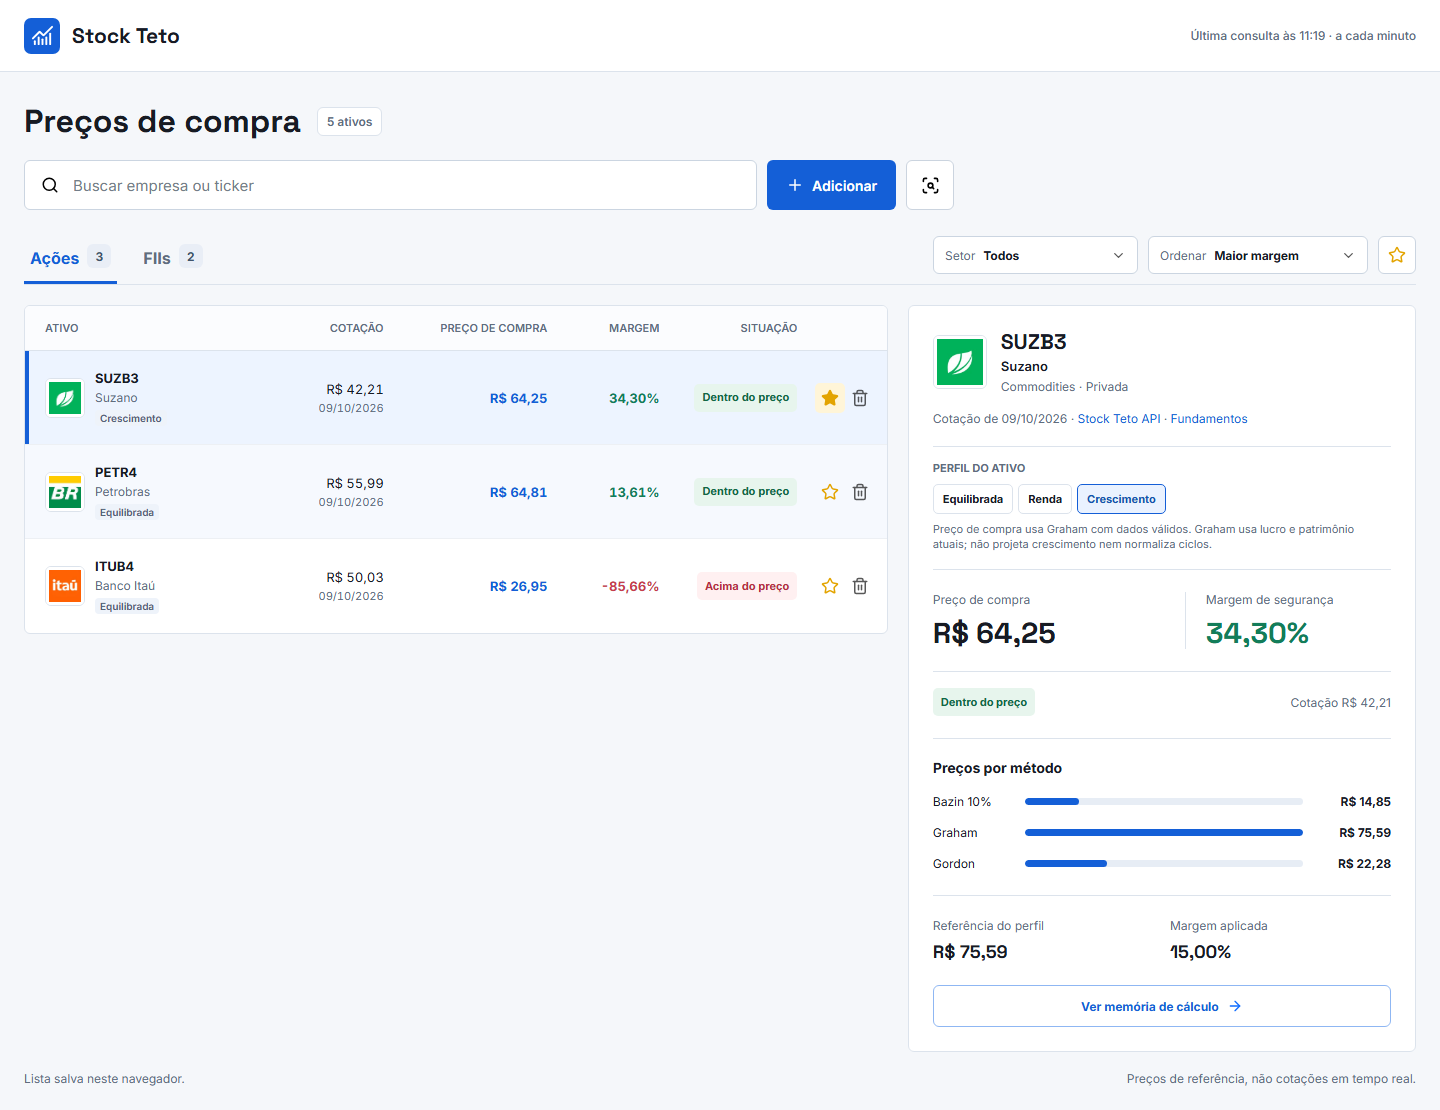
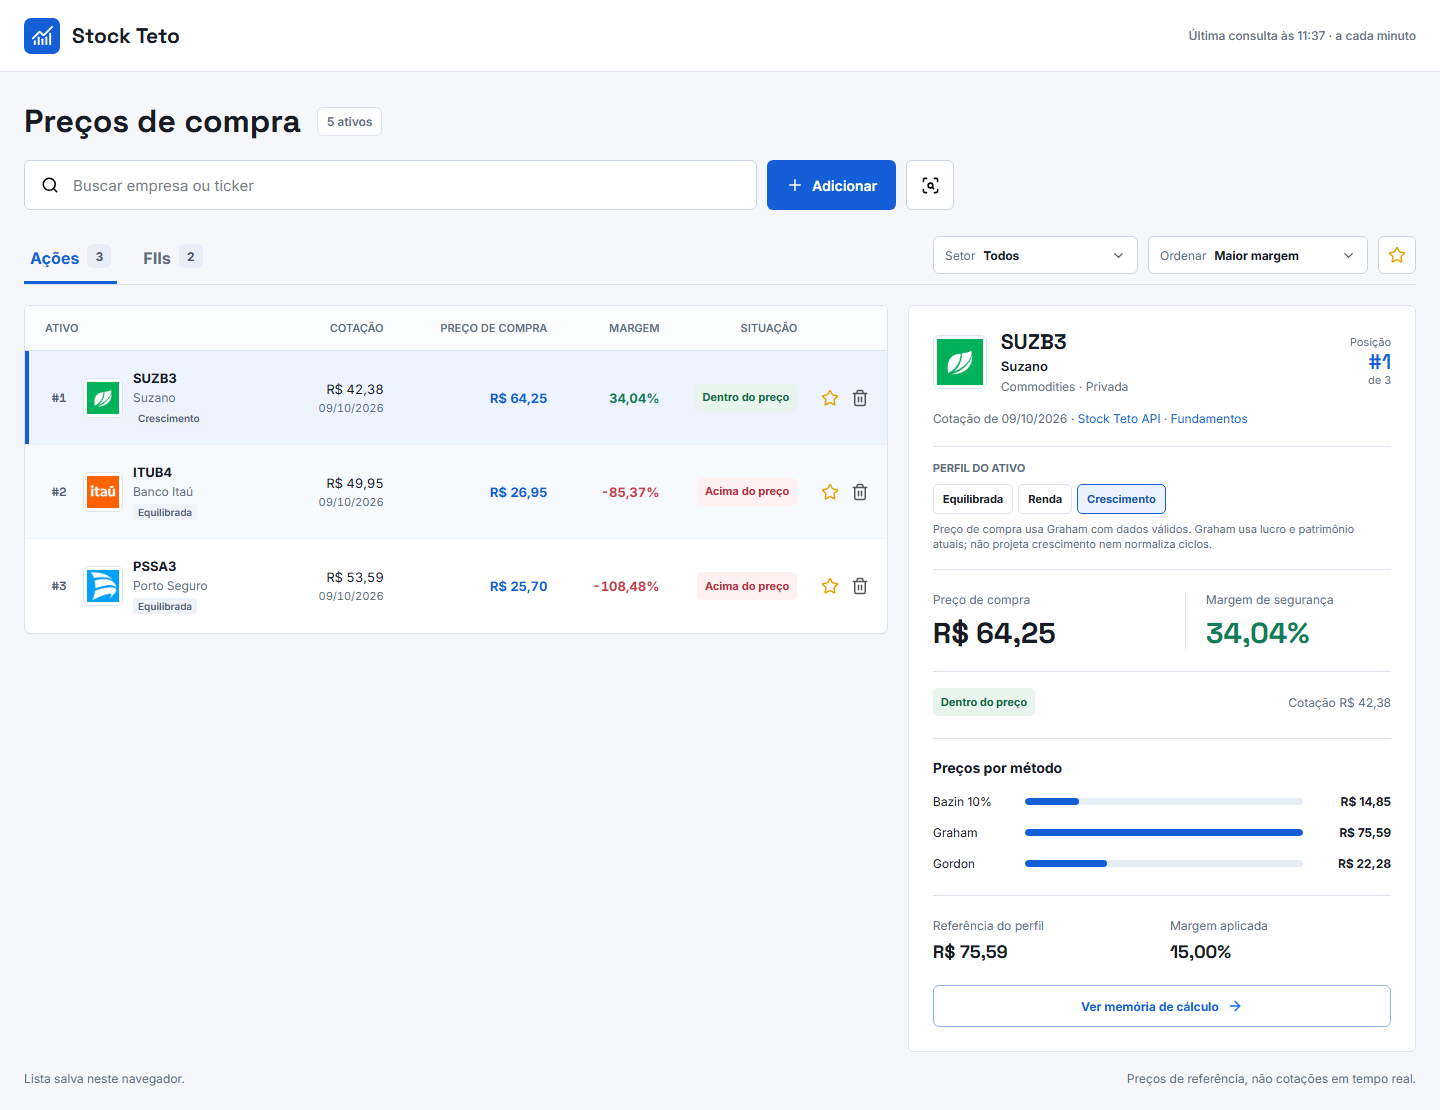
Interface: mostra posicao no ranking

diff --git a/public/js/prices.js b/public/js/prices.js
@@ -436,23 +436,24 @@ function renderClassCompact(type) {
   if (!ranked.length) {
     const message = favoriteOnly ? 'Nenhum favorito nesta lista.' : type === 'stock' && settings.stockSector !== 'all' ? 'Nenhuma ação neste setor.' : type === 'stock' ? 'Nenhuma ação adicionada.' : 'Nenhum FII adicionado.';
     target.innerHTML = `<div class="empty compact-empty">${icon(type === 'stock' ? 'chart-no-axes-combined' : 'building-2')}<p>${message}</p></div>`;
-    return;
+    return ranked;
   }
   const visible = type === 'stock' ? ranked.slice(0, stockVisibleCount) : ranked;
   target.innerHTML = `<div class="table-scroll" tabindex="0" role="region" aria-label="Ranking de ${type === 'stock' ? 'ações' : 'FIIs'}"><table class="asset-table compact-table">
     <thead><tr><th scope="col">Ativo</th><th scope="col">Cotação</th><th scope="col">${type === 'stock' ? 'Preço de compra' : 'Valor de referência'}</th><th scope="col">${type === 'stock' ? 'Margem' : 'Desconto'}</th><th scope="col">Situação</th><th scope="col"><span class="sr-only">Ações</span></th></tr></thead>
-    <tbody>${visible.map((asset) => {
+    <tbody>${visible.map((asset, index) => {
       const margin = assetMargin(asset);
       const status = assetStatus(asset);
       const label = asset.loading ? 'Consultando…' : asset.error ? 'Consulta indisponível' : asset.name || asset.ticker;
       const favorite = settings.favorites.includes(asset.ticker);
-      return `<tr class="${asset.ticker === selectedTicker && type === activeType ? 'selected-row' : ''}" data-row-ticker="${escape(asset.ticker)}"><td class="identity-cell"><div class="asset-name">${logo(asset)}<button class="asset-link" type="button" data-action="select" data-ticker="${escape(asset.ticker)}" aria-label="Selecionar ${escape(asset.ticker)}">${escape(asset.ticker)}<small title="${escape(label)}">${escape(label)}</small>${type === 'stock' ? `<span class="strategy-tag">${escape(STRATEGY_LABELS[strategyFor(asset)])}</span>` : ''}</button></div></td>
+      return `<tr class="${asset.ticker === selectedTicker && type === activeType ? 'selected-row' : ''}" data-row-ticker="${escape(asset.ticker)}"><td class="identity-cell"><div class="asset-name"><span class="rank-index" aria-label="Posição ${index + 1}">#${index + 1}</span>${logo(asset)}<button class="asset-link" type="button" data-action="select" data-ticker="${escape(asset.ticker)}" aria-label="Selecionar ${escape(asset.ticker)}">${escape(asset.ticker)}<small title="${escape(label)}">${escape(label)}</small>${type === 'stock' ? `<span class="strategy-tag">${escape(STRATEGY_LABELS[strategyFor(asset)])}</span>` : ''}</button></div></td>
         <td data-label="Cotação"><span class="cell-value">${money(recentQuote(asset) ? asset.currentPrice : null)}</span>${Number.isFinite(asset.currentPrice) ? `<small class="quote-date">${escape(quoteDate(asset))}</small>` : ''}</td>
         <td data-label="${type === 'stock' ? 'Preço de compra' : 'Valor de referência'}" class="price-selected">${money(referencePrice(asset))}</td>
         <td data-label="${type === 'stock' ? 'Margem' : 'Desconto'}" class="${margin === null ? '' : margin >= 0 ? 'positive-text' : 'negative-text'}">${percent(margin)}</td>
         <td data-label="Situação"><span class="status-pill ${status.className}">${status.text}</span></td>
         <td class="actions-cell"><div class="row-actions"><button class="icon-button favorite-button ${favorite ? 'active' : ''}" type="button" data-action="favorite" data-ticker="${escape(asset.ticker)}" aria-pressed="${favorite}" title="${favorite ? 'Desfavoritar' : 'Favoritar'} ${escape(asset.ticker)}" aria-label="${favorite ? 'Desfavoritar' : 'Favoritar'} ${escape(asset.ticker)}">${favoriteIcon(favorite)}</button><button class="icon-button remove" type="button" data-action="remove" data-ticker="${escape(asset.ticker)}" title="Remover ${escape(asset.ticker)}" aria-label="Remover ${escape(asset.ticker)}">${icon('trash-2')}</button></div></td></tr>`;
     }).join('')}</tbody></table></div>${type === 'stock' && ranked.length > visible.length ? `<div class="show-more-row"><button class="button secondary" type="button" data-action="show-more-stocks">Mostrar mais ${Math.min(STOCK_PAGE_SIZE, ranked.length - visible.length)}</button></div>` : ''}`;
+  return ranked;
 }
 
 function methodLine(label, value, maximum) {
@@ -460,7 +461,7 @@ function methodLine(label, value, maximum) {
   return `<div class="method-line"><span>${label}</span><div class="method-track"><i style="width:${width}%"></i></div><strong>${money(value)}</strong></div>`;
 }
 
-function renderInsight() {
+function renderInsight(ranked) {
   const panel = $('asset-insight');
   const asset = assets.get(selectedTicker);
   if (!selectedTicker) {
@@ -485,7 +486,8 @@ function renderInsight() {
   const fii = valuation.fii || {};
   const fiiIncomePrice = reference === null ? null : fii.incomePrice;
   const fiiMaximum = Math.max(fiiIncomePrice || 0, fii.vpa || 0);
-  panel.innerHTML = `<div class="insight-heading">${logo(asset)}<div><h2>${escape(asset.ticker)}</h2><strong>${escape(asset.name || asset.ticker)}</strong><small>${escape(sector)} · ${escape(control)}</small></div></div>
+  const position = ranked.findIndex((item) => item.ticker === asset.ticker) + 1;
+  panel.innerHTML = `<div class="insight-heading">${logo(asset)}<div><h2>${escape(asset.ticker)}</h2><strong>${escape(asset.name || asset.ticker)}</strong><small>${escape(sector)} · ${escape(control)}</small></div>${position ? `<span class="rank-summary" title="Posição conforme os filtros e a ordenação atuais"><span>Posição</span><strong>#${position}</strong><span>de ${ranked.length}</span></span>` : ''}</div>
     <div class="insight-source">${recentQuote(asset) ? `Cotação de ${escape(quoteDate(asset))}` : 'Cotação indisponível'} · ${quoteSource ? `<a href="${quoteSource}" target="_blank" rel="noopener noreferrer">Stock Teto API</a>` : 'API indisponível'}${source ? ` · <a href="${escape(source)}" target="_blank" rel="noopener noreferrer">Fundamentos</a>` : ''}</div>
     ${asset.type === 'stock' ? strategyControl(asset) : ''}
     <div class="insight-primary"><div><small>${asset.type === 'stock' ? 'Preço de compra' : 'Valor de referência'}</small><strong>${money(reference)}</strong></div><div><small>${asset.type === 'stock' ? 'Margem de segurança' : 'Desconto estimado'}</small><strong class="${margin === null ? '' : margin >= 0 ? 'positive-text' : 'negative-text'}">${percent(margin)}</strong></div></div>
@@ -512,9 +514,9 @@ function render() {
   $('favorites-filter').innerHTML = favoriteIcon(favoriteOnly);
   renderSectorFilter();
   renderSortFilter();
-  renderClassCompact('stock');
-  renderClassCompact('fii');
-  renderInsight();
+  const stocks = renderClassCompact('stock');
+  const fiis = renderClassCompact('fii');
+  renderInsight(activeType === 'stock' ? stocks : fiis);
 }
 
 function showAnalysis(asset) {

diff --git a/public/css/prices-layout.css b/public/css/prices-layout.css
@@ -177,6 +177,7 @@ body { background: var(--bg); }
 .compact-table td { padding: 14px 12px; height: 94px; font-size: 13px; }
 .compact-table td:first-child { padding-left: 20px; }
 .compact-table .asset-name { min-width: 0; }
+.rank-index { display: inline-block; flex: 0 0 28px; width: 28px; color: #536176; font-family: var(--display); font-size: 12px; font-weight: 700; text-align: center; }
 .compact-table .logo { width: 40px; height: 40px; }
 .compact-table .asset-link { min-width: 0; font-size: 13px; }
 .compact-table .asset-link small { max-width: 160px; overflow: hidden; text-overflow: ellipsis; white-space: nowrap; margin-top: 4px; }
@@ -215,6 +216,8 @@ body { background: var(--bg); }
 .insight-heading strong, .insight-heading small { display: block; overflow-wrap: anywhere; }
 .insight-heading strong { margin-top: 3px; font-size: 13px; font-weight: 600; }
 .insight-heading small { margin-top: 5px; font-size: 12px; color: var(--muted); }
+.rank-summary { display: flex; flex-direction: column; align-items: flex-end; flex: 0 0 auto; margin-left: auto; color: var(--muted); font-size: 11px; line-height: 1.25; }
+.rank-summary strong { margin: 2px 0; color: var(--blue); font-family: var(--display); font-size: 21px; line-height: 1; }
 .insight-source { margin: 17px 0 20px; font-size: 12px; color: var(--muted); }
 .insight-source a { color: var(--blue); text-decoration: none; }
 .insight-source a:hover { text-decoration: underline; }
@@ -319,11 +322,12 @@ footer { margin-top: 18px; }
   .favorite-toggle { flex: 0 0 38px; }
   .compact-table tr { gap: 15px 12px; padding: 16px 15px; }
   .compact-table tr.selected-row { box-shadow: inset 4px 0 var(--blue); }
-  .compact-table tr.selected-row td:first-child { box-shadow: none; }
+  .compact-table tbody tr.selected-row td:first-child { box-shadow: none; }
   .compact-table td { height: auto; padding: 0; font-size: 14px; }
   .compact-table td:first-child { padding-left: 0; }
   .compact-table td:nth-child(5) { display: block; }
   .compact-table .identity-cell { padding-right: 70px; }
+  .compact-table .rank-index { flex-basis: 26px; width: 26px; font-size: 11px; }
   .compact-table .logo { width: 38px; height: 38px; }
   .compact-table .asset-link small { max-width: 200px; }
   .compact-table .actions-cell { right: 10px; top: 17px; }

diff --git a/public/index.html b/public/index.html
@@ -9,9 +9,9 @@
   <link rel="preconnect" href="https://fonts.gstatic.com" crossorigin />
   <link href="https://fonts.googleapis.com/css2?family=Inter:wght@400;500;600;700&family=Space+Grotesk:wght@500;600;700&display=swap" rel="stylesheet" />
   <link rel="stylesheet" href="/css/prices.css?v=20260913-2" />
-  <link rel="stylesheet" href="/css/prices-layout.css?v=20261009-1" />
+  <link rel="stylesheet" href="/css/prices-layout.css?v=20261009-2" />
   <script defer src="/js/fair-price-model.js?v=20261009-1"></script>
-  <script defer src="/js/prices.js?v=20261009-1"></script>
+  <script defer src="/js/prices.js?v=20261009-2"></script>
 </head>
 <body>
   <header class="topbar">

diff --git a/README.md b/README.md
@@ -8,7 +8,7 @@ Um painel para comparar **preços de compra de ações e FIIs brasileiros**. Voc
 
 1. Busque uma empresa ou ticker e escolha **Adicionar** para colocá-la no ranking, ou **Analisar** para consultar sem salvar.
 2. Alterne entre **Ações** e **FIIs**. Filtre ações por setor, ordene por margem e marque favoritos com a estrela.
-3. Selecione um ativo para ver os métodos lado a lado; abra **Ver memória de cálculo** para conferir os números usados.
+3. Selecione um ativo para ver sua posição na lista e os métodos lado a lado; abra **Ver memória de cálculo** para conferir os números usados.
 
 A lista, os favoritos e o perfil escolhido para cada ação ficam salvos **neste navegador**. O app começa vazio e não importa uma carteira automaticamente.
 
